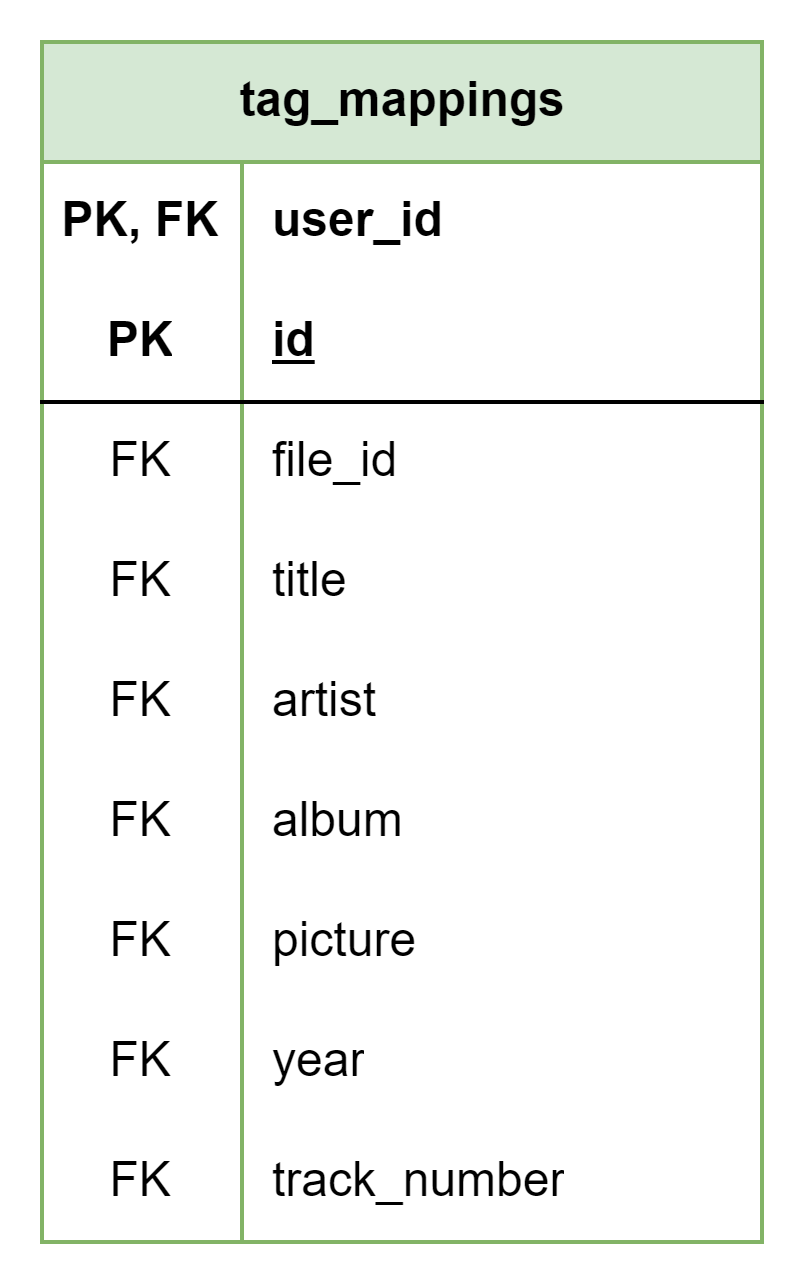
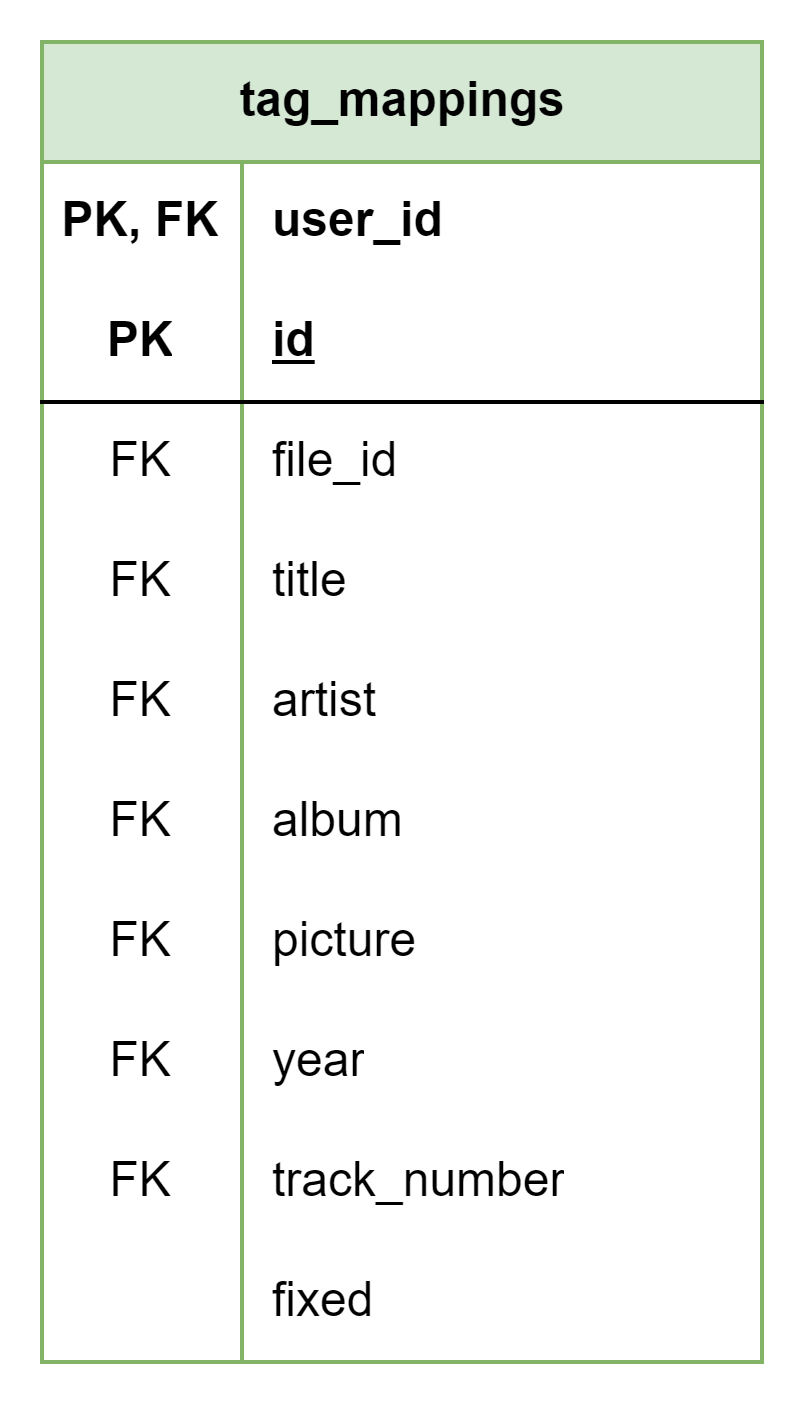
Update documentation (#96)

diff --git a/docs/business/file_management.md b/docs/business/file_management.md
@@ -10,6 +10,74 @@ This document describes file management details, such as file downloading, synch
 - [Tag mappings](#tag-mappings)
 - [File receiving](#file-receiving)
 
+# File status coordinator worker
+
+The file status coordinator worker is a separate program from the server, that is responsible for setting completed status for the file. It is accessible to other services via following API:
+```json
+routing-key: checking/file
+body:
+{
+    "file_id": 1,
+}
+``` 
+
+On message it should:
+
+#### AC 1
+
+Find the file by given id, and check whether its status is 'D'?  
+- yes - continue  
+- no - finish message processing  
+
+#### AC 2
+
+Fetch all <b>tags</b> for current file. There is more than one tag?  
+- yes - continue  
+- no - finish message processing  
+
+#### AC 2.1
+
+Check statuses of fetched tags. All statuses are 'C' or 'E'?  
+- yes - continue  
+- no - finish message processing  
+
+#### AC 3
+
+Fetch all records (<b>mappings</b> later) from [tam_mappings](../database/tags/tag_mappings.md) where:  
+file_id = request.file_id  
+fixed = FALSE  
+
+#### AC 4
+
+For each record in <b>mappings</b> perform AC 5
+
+#### AC 5
+
+Get <b>pirorities</b> from the [tag_mapping_priorities](../database/tags/tag_mapping_priorities.md) table where:  
+user_id = <b>mapping</b>.user_id  
+
+#### AC 5.1
+
+Form tag_mapping using <b>tags</b> and <b>pirorities</b>, set fixed to TRUE and update it in the database.
+
+#### AC 5.2
+
+Get <b>user_file</b> records from [user_files](../database/files/user_files.md) table where:  
+user_id = <b>mapping</b>.user_id  
+file_id = request.file_id  
+
+#### AC 5.3
+
+For each <b>user_file</b> record perform AC 5.4
+
+#### AC 5.4.1
+
+Update the [file_synchronization](../database/files/file_synchronization.md) table with:  
+is_synchronized = FALSE  
+server_ts = current timestamp    
+where:  
+user_file_id = <b>user_file</b>.id  
+
 # Plugins  
 
 The server relies on plugins to perform such actions as file downloading, parsing, etc. The current version requires the following plugins:
@@ -168,9 +236,60 @@ Does the plugin report an error?
 
 # Tag mappings  
 
-This section describes only an idea around tag mappings, as the business logic of the API is just a set of CRUD operations.  
-So, the idea is to create a tag mapping for each file, which will tell what tags to apply to the file before sending it to the user. It should be created when the user requests file downloading(#downloading). Each priority item could be modified via the API.
-Mapping priority is an object unique for each user and is used to create a default tag_mapping for the file.
+Tag mappings contain information about which exact tags should be applied to the file. They are unique for each user.  
+
+On tag mapping update server should:  
+
+#### AC 1
+
+Set tag_mapping fixed to TRUE together with rest of the fields.
+
+#### AC 2
+
+Get <b>user_file</b> records from [user_files](../database/files/user_files.md) table where:  
+user_id = tag_mapping.user_id  
+file_id = tag_mapping.file_id  
+
+#### AC 3
+
+For each <b>user_file</b> record perform AC 4  
+
+#### AC 4
+
+Update the [file_synchronization](../database/files/file_synchronization.md) table with:  
+is_synchronized = FALSE  
+server_ts = current timestamp  
+where:  
+user_file_id = <b>user_file</b>.id  
+
+## Tag mapping priorities
+
+As all sources provide tags of different quality, it is natural to choose tags from the finest sources first, then from less formidable ones, and so on. Tag mapping priorities are a simple way to automate this.  
+
+Default priority for each user is configurable, using following format:  
+```json
+{
+  "title": [
+    0
+  ],
+  "artist": [
+    0
+  ],
+  "album": [
+    0
+  ],
+  "year": [
+    0
+  ],
+  "trackNumber": [
+    0
+  ],
+  "picture": [
+    0
+  ]
+}
+```  
+Each item in the arrays is a source id. Its priority is defined by the position in the array; for example, the item on index 0 has the highest priority, and so on.
 
 # File receiving  
 
@@ -194,7 +313,7 @@ Check the status of the found file.
 If a status is:
 - "С" - go to AC 3
 - "E" - abort the operation and send the "File preparation failed" (errorCode 2) error response to the user   
-- otherwise - abort the operation and send the "File is not prepared yet" (errorCode 3) error response to the user
+- otherwise - abort the operation and send the "File is not ready yet" (errorCode 3) error response to the user
 
 #### AC 3
 Try to find a record in the [tag_mappings](../database/tags/tag_mappings.md) table by the following filter:  
@@ -213,7 +332,7 @@ source = [all sources that required by the mapping]
 
 #### AC 5
 
-Create a tag object by combining all the tag data from the previous step and request tag file tagging via its file tagger plugin.  
+Create a tag object by combining all the tag data from the previous step and tag file. 
 Value mapping for the request:  
 tag = [created_tag]
 file = [file.uuid]  
@@ -221,3 +340,24 @@ file = [file.uuid]
 Does the plugin report an error?  
 - yes - abort the operation and send the error response to the user (errorCode -1)  
 - no - send a file to the user
+
+# File confirmation  
+
+The client must confirm file downloading using POST /up-vibe/v1/files/{fileId}/confirm request
+
+The server should:
+
+#### AC 1
+
+Get <b>user_file</b> record from [user_files](../database/files/user_files.md) table where:  
+user_id = request.body.user_id  
+file_id = request.url.file_id  
+
+#### AC 2
+
+Update the [file_synchronization](../database/files/file_synchronization.md) table with:  
+is_synchronized = TRUE  
+device_ts = current timestamp  
+where:  
+device_id = request.body.deviceId  
+user_file_id = <b>user_file</b>.id  

diff --git a/docs/business/user_management.md b/docs/business/user_management.md
@@ -40,6 +40,10 @@ Request the user's nickname from the auth0 /userinfo endpoint. Then, insert the 
 sub = access_token.sub  
 name = user_info.nickname  
 
+#### AC 2.1
+
+Create a record in the [tag_mapping_priorities](../database/tags/tag_mapping_priorities.md) table according to the configuration(for more details see [file management](./file_management.md) Tag mapping priorities)  
+
 #### AC 3
 
 Insert record in the [devices](../database/users/devices.md) table with the following values:  

diff --git a/docs/database/tags/tag_mappings.md b/docs/database/tags/tag_mappings.md
@@ -2,7 +2,7 @@
 
 This page describes the public.tag_mappings table
 
-![Alt text](tag_mappings.png)
+![alt text](tag_mappings.png)
 
 ## Structure definition
 
@@ -17,3 +17,4 @@ This page describes the public.tag_mappings table
 | picture | INT | NOT NULL,<br/> FK to public.sources(id) |
 | year | INT | NOT NULL,<br/> FK to public.sources(id) |
 | track_number | INT | NOT NULL,<br/> FK to public.sources(id) |
+| fixed | BOOLEAN | NOT NULL DEFAULT FALSE |

diff --git a/docs/database/files/file_statuses.md b/docs/database/files/file_statuses.md
@@ -17,6 +17,7 @@ This page describes the public.file_statuses table
 | - | - |
 | 'СR'  | 'Created' |
 | 'С'  | 'Completed' |
+| 'D'  | 'Downloaded' |
 | 'E'  | 'Error' |
 | 'I'  | 'In Progress' |
 | 'P'  | 'Pending' |
